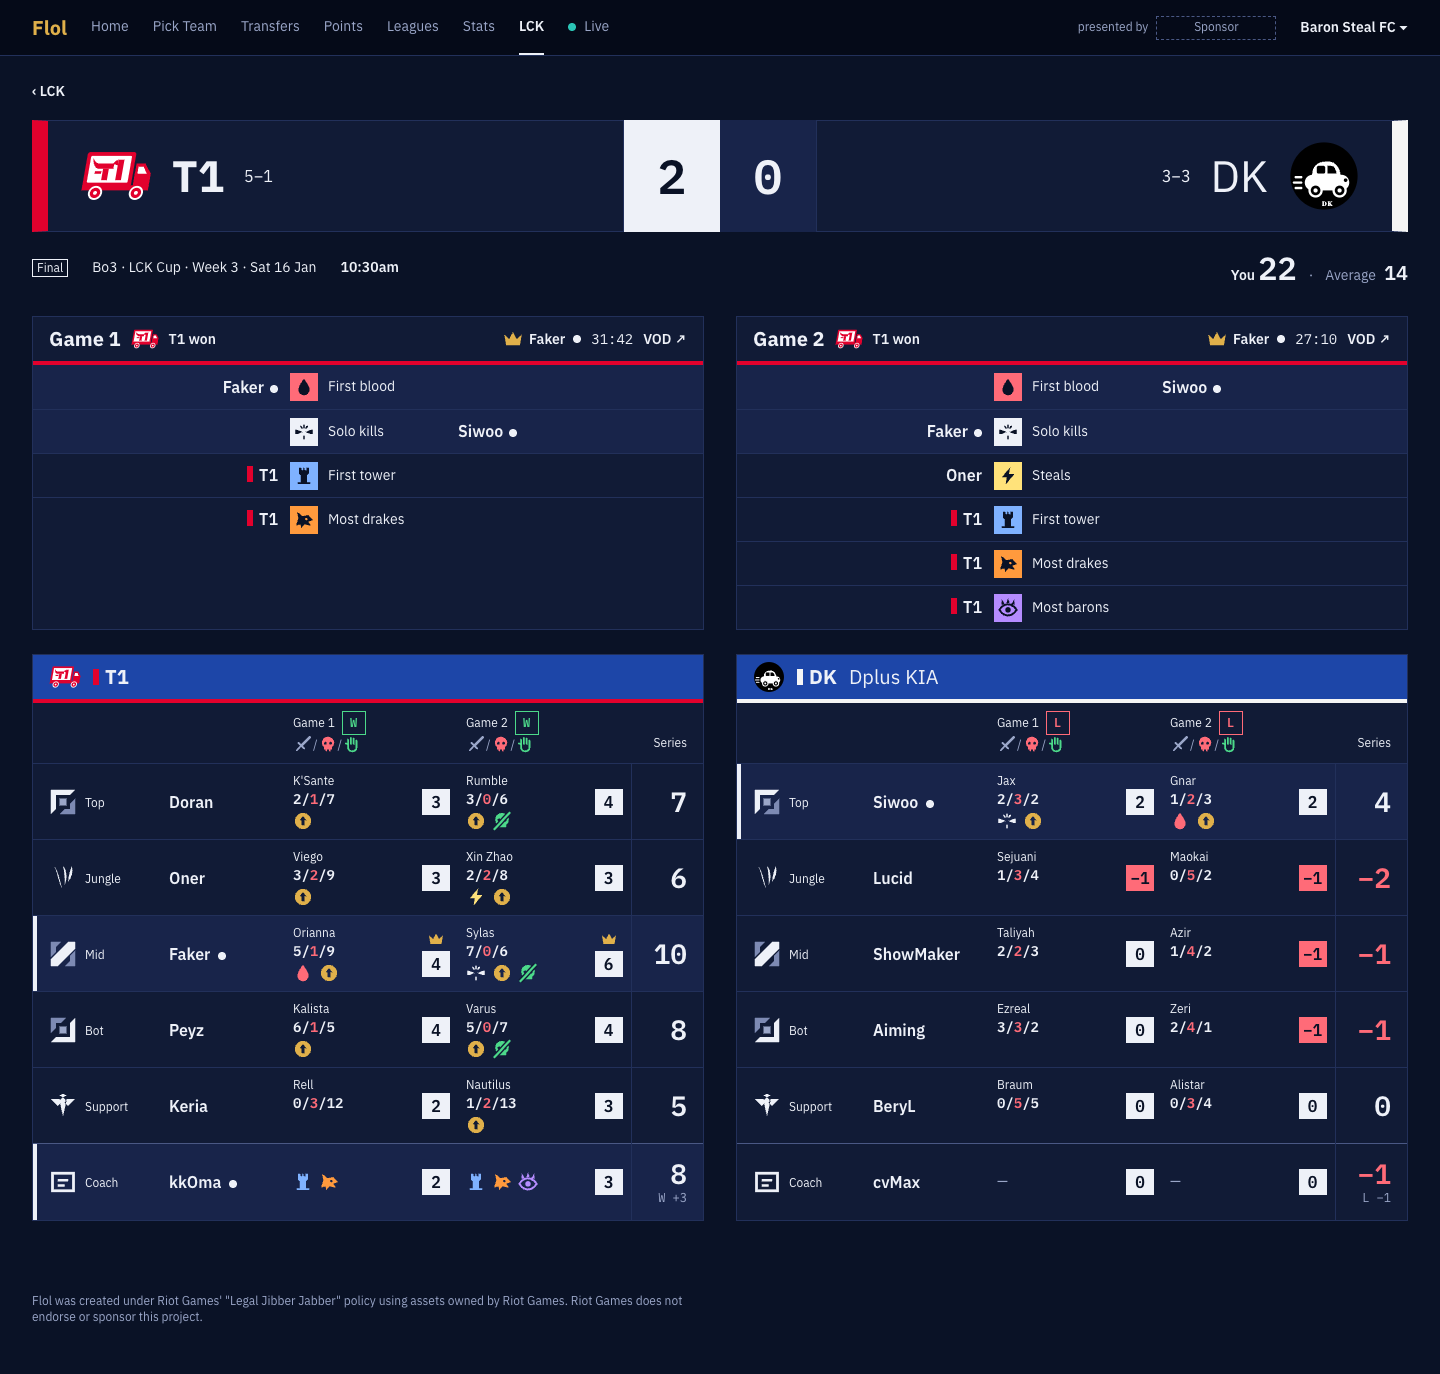
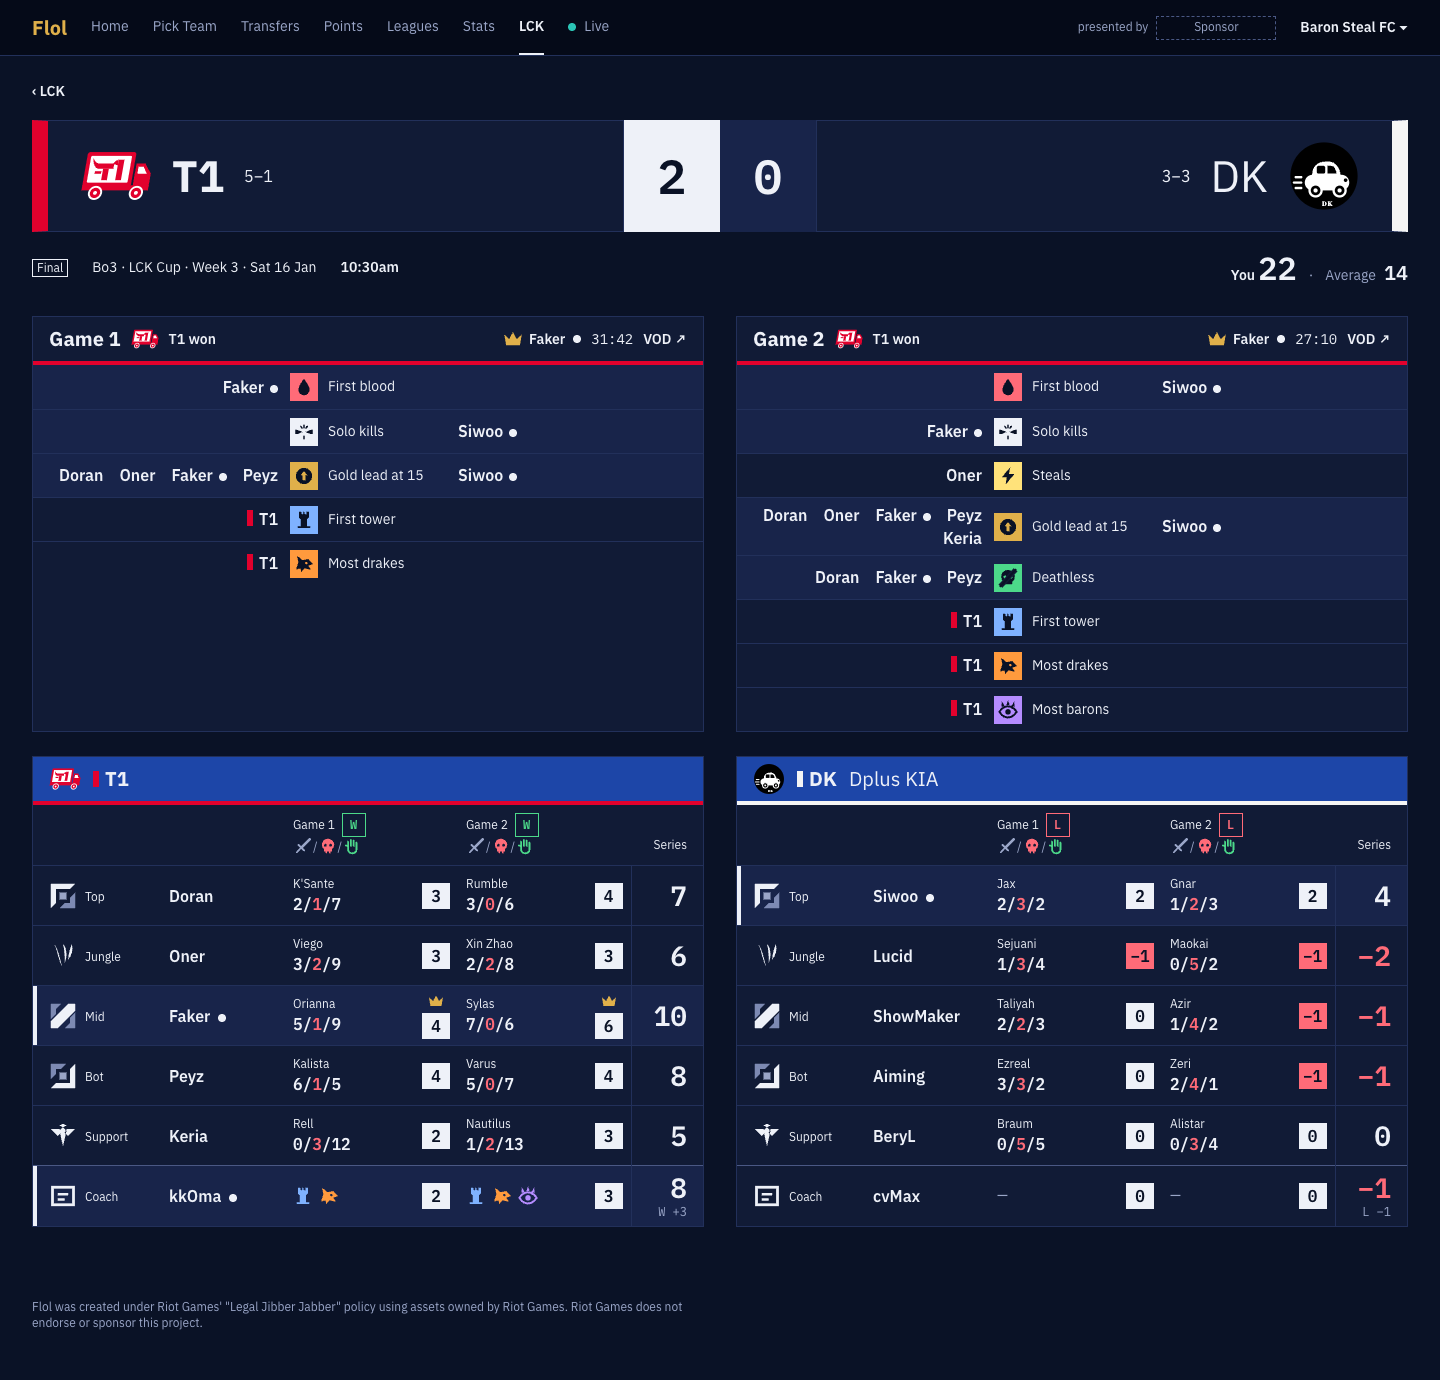
docs: Series' marks leave the K/D/A cells; gold lead at 15 and deathless join each game's card

diff --git a/docs/design/approved/series/series.html b/docs/design/approved/series/series.html
@@ -61,7 +61,7 @@ td.tot small { white-space: nowrap; }
 .grid th .chip { margin: 0 4px; }
 .th__sub { display: block; line-height: 20px; }
 .grid th { vertical-align: bottom; }
-.grid td { padding: 0 8px; height: 76px; border-top: 1px solid var(--line); vertical-align: middle; }
+.grid td { padding: 0 8px; height: 60px; border-top: 1px solid var(--line); vertical-align: middle; }
 .grid td:first-child, .grid th:first-child { padding-left: 16px; }
 td.rl { color: var(--text); font-size: 12px; white-space: nowrap; }
 td.rl svg { width: 28px; height: 28px; vertical-align: -9px; margin-right: 8px; }
@@ -71,16 +71,14 @@ td.pl small { color: var(--mid); font: 400 12px/16px var(--ko); margin-left: 8px
 .gm { display: flex; justify-content: space-between; align-items: center; gap: 8px; }
 .gm > span:first-child { white-space: nowrap; min-width: 0; }
 .gm small { display: block; color: var(--mid); font: 400 12px/16px var(--fig); }
-/* A game cell: the champion, K/D/A under the column's sword, skull and hand, then a mark for each line that scored (spec/05). */
+/* A game cell: the champion, then K/D/A under the column's sword, skull and hand. */
 .ic { width: 16px; height: 16px; flex: none; vertical-align: -3px; }
 .gm .ch { display: block; font-size: 12px; line-height: 16px; color: var(--text); overflow: hidden; text-overflow: ellipsis; }
-.gm .kda { display: block; font: 600 14px/20px var(--fig); }
+.gm .kda { display: block; font: 600 16px/24px var(--fig); }
 .gm .kda i { font-style: normal; color: var(--m-dth); }
 td.drop .gm .kda i { color: inherit; }
 .th__kda { display: block; line-height: 20px; color: var(--mid); }
 .th__kda .ic { width: 18px; height: 18px; margin: 0 1px; vertical-align: -4px; }
-.gm .mk { display: flex; gap: 6px; height: 20px; margin-top: 2px; }
-.gm .mk .ic { width: 20px; height: 20px; }
 .gm .p .ic--pog { color: var(--gold); }
 tr.is-me td { background: var(--fill); }
 tr.is-me td:first-child { box-shadow: inset 4px 0 0 var(--text); }
@@ -107,7 +105,7 @@ tr.is-me td:first-child { box-shadow: inset 4px 0 0 var(--text); }
 .ev b { font-size: 16px; }
 .ev__what .ic--pog { color: var(--gold); }
 .ev__a { text-align: right; }
-.ev__a, .ev__b { display: flex; flex-wrap: wrap; gap: 0 16px; align-items: center; }
+.ev__a, .ev__b { display: flex; flex-wrap: wrap; gap: 0 16px; align-items: center; padding: 6px 0; }
 .ev__a { justify-content: flex-end; }
 .ev b { font-weight: 600; }
 .ev .yours { margin-left: 6px; }
@@ -115,7 +113,6 @@ tr.is-me td:first-child { box-shadow: inset 4px 0 0 var(--text); }
 .gm .p { flex: none; font: 600 14px/20px var(--fig); min-width: 28px; display: flex; flex-direction: column; align-items: center; gap: 4px; }
 .gm .p .box { min-width: 28px; font: 700 16px/26px var(--fig); text-align: center; background: var(--text); color: var(--bg); }
 td.drop .gm, td.drop .gm small, td.drop .gm .ch { color: var(--mid); }
-td.drop .mk { opacity: 0.5; }
 /* A minus is red, on a game and on a series. */
 .neg { color: var(--down); }
 .gm .p .box.neg { background: var(--down); color: var(--bg); }
@@ -242,16 +239,14 @@ const best2 = (xs) => xs.map((x, i) => [x, i]).filter(([x]) => x !== null).sort(
 const me = (n) => (MINE.includes(n) ? '<i class="yours" title="Yours"></i>' : "");
 const ic = (id, title = "", cls = "") => `<svg class="ic ic--${id} ${cls}"${title ? ` role="img" aria-label="${title}"` : ' aria-hidden="true"'}><use href="#i-${id}"/></svg>`;
 const pog = (s, i, n) => (s.games[i].pog === n ? ic("pog", "Player of the Game", "ic--pog") : "");
-// A player's marks for a game: one for each line that scored beyond kills, deaths and assists.
-const marks = ([, , d, , gold, solo, fb, multi, steal, live]) => [fb && ic("fb", "First blood"), ...Array(solo).fill(ic("solo", "Solo kill")), ...Array(steal).fill(ic("steal", "Steal")), multi && ic("multi", multi > 1 ? "Penta" : "Quadra"), gold && ic("gold", "Gold lead at 15 minutes"), d === 0 && !live && ic("none", "Deathless")].filter(Boolean).join("");
 const cell = (s, i, n, label, p, counted) => `<td class="${counted ? "" : "drop"}"><div class="gm"><span>${label}</span><span class="p">${pog(s, i, n)}${counted ? `<span class="box${p < 0 ? " neg" : ""}">${fmt(p)}</span>` : fmt(p)}</span></div></td>`;
 const L = ["First tower", "Most drakes", "Most barons", "Most elders", "Quick win"], LI = ["tower", "drake", "baron", "elder", "quick"];
 // A game's events, as FPL's and UCL fantasy's finished match: a row an event that happened, each team's names on its side.
 function game(s, i) {
   const g = s.games[i], side = (code) => { const t = s[code], at = (f) => t.p.filter((p) => p[3][i] && f(p[3][i]) > 0).map((p) => `<span><b>${p[1]}</b>${f(p[3][i]) > 1 ? ` ×${f(p[3][i])}` : ""}${me(p[1])}</span>`).join("");
     const own = `<span><i class="team__bar" style="background:${BAR[code]}"></i><b>${code}</b></span>`, c = t.coach[2][i];
-    return [at((x) => x[6]), at((x) => x[5]), at((x) => x[8]), at((x) => (x[7] === 1 ? 1 : 0)), at((x) => (x[7] === 2 ? 1 : 0)), ...c.map((x) => (x ? own : ""))]; };
-  const A = side(s.a), B = side(s.b), W = [["fb", "First blood"], ["solo", "Solo kills"], ["steal", "Steals"], ["multi", "Quadras"], ["multi", "Pentas"], ...L.map((l, j) => [LI[j], l])];
+    return [at((x) => x[6]), at((x) => x[5]), at((x) => x[8]), at((x) => (x[7] === 1 ? 1 : 0)), at((x) => (x[7] === 2 ? 1 : 0)), at((x) => x[4]), at((x) => (x[2] === 0 && !x[9] ? 1 : 0)), ...c.map((x) => (x ? own : ""))]; };
+  const A = side(s.a), B = side(s.b), W = [["fb", "First blood"], ["solo", "Solo kills"], ["steal", "Steals"], ["multi", "Quadras"], ["multi", "Pentas"], ["gold", "Gold lead at 15"], ["none", "Deathless"], ...L.map((l, j) => [LI[j], l])];
   const rows = W.map(([id, word, cls], j) => (A[j] || B[j] ? `<div class="ev${(A[j] + B[j]).includes("yours") ? " is-me" : ""}"><span class="ev__a">${A[j]}</span><span class="ev__what"><span class="sq" style="background:var(--m-${id}, var(--text))">${ic(id, "", cls)}</span>${word}</span><span class="ev__b">${B[j]}</span></div>` : "")).join("");
   return `<section class="game"><h2 class="game__head"${g.w ? ` style="border-bottom-color:${BAR[g.w]}"` : ""}><b>Game ${i + 1}</b>${g.live ? `<span class="tag tag--live">Live</span><span class="len" style="margin-left:auto"><b>${g.live}</b></span>` : `${crest(g.w)}<span class="won">${g.w} won</span><span class="pogw">${ic("pog", "Player of the Game")}<b>${g.pog}</b>${me(g.pog)}</span><span class="len">${g.len}</span><a class="link" href="#">VOD ↗</a>`}</h2>${rows || '<div class="ev ev--none">—</div>'}</section>`;
 }
@@ -261,7 +256,7 @@ function team(s, code) {
     <tr><th></th><th></th>${s.games.map((g, i) => `<th>Game ${i + 1} ${g.live ? `<span class="chip chip--live">Live</span>` : `<span class="chip chip--${g.w === code ? "w" : "l"}">${g.w === code ? "W" : "L"}</span>`}<span class="th__kda">${ic("kda", "Kills")}/${ic("dth", "Deaths")}/${ic("ast", "Assists")}</span></th>`).join("")}<th class="n">Series</th></tr>`;
   const rows = t.p.map(([rl, nm, k, gs, sub]) => { const ps = gs.map((g) => pts(rl, g)), c = best2(ps);
     return `<tr${MINE.includes(nm) ? ' class="is-me"' : ""}><td class="rl"><svg><use href="#i-${rl}"/></svg>${RH[rl]}${sub ? " · sub" : ""}</td><td class="pl"><b>${nm}</b>${me(nm)}</td>
-      ${gs.map((g, i) => (g ? cell(s, i, nm, `<span class="ch">${g[0]}</span><span class="kda">${g[1]}/<i>${g[2]}</i>/${g[3]}</span><span class="mk">${marks(g)}</span>`, ps[i], c.includes(i)) : '<td><span class="none">—</span></td>')).join("")}<td class="tot">${mine(nm, sum(c.map((i) => ps[i])))}</td></tr>`; }).join("");
+      ${gs.map((g, i) => (g ? cell(s, i, nm, `<span class="ch">${g[0]}</span><span class="kda">${g[1]}/<i>${g[2]}</i>/${g[3]}</span>`, ps[i], c.includes(i)) : '<td><span class="none">—</span></td>')).join("")}<td class="tot">${mine(nm, sum(c.map((i) => ps[i])))}</td></tr>`; }).join("");
   const [cn, ck, cg] = t.coach, cp = cg.map(sum), c = best2(cp), sw = !over ? 0 : won.filter(Boolean).length === 2 ? 3 : -1;
   const coach = `<tr class="co${MINE.includes(cn) ? " is-me" : ""}"><td class="rl"><svg><use href="#i-coach"/></svg>Coach</td><td class="pl"><b>${cn}</b>${me(cn)}</td>
     ${cg.map((g, i) => cell(s, i, cn, `<span class="${g.some(Boolean) ? "co-l" : "none"}">${g.map((x, j) => (x ? ic(LI[j], L[j]) : "")).join("") || "—"}</span>`, cp[i], c.includes(i))).join("")}

diff --git a/docs/design/approved/series/README.md b/docs/design/approved/series/README.md
@@ -27,12 +27,12 @@ The Series page: one series, its games and each player's lines in each game (spe
 - **Type**: 44 team codes and 48 the series score in the scorebug, 32 You, 28 each player's series total, 20 Average and a game card's title, 16 names and per-game points, 14 body and K/D/A, 12 labels and champions. The nav is shared.
 - **Scorebug**, 112 tall: a 16px bar of the team's colour at each outer edge, team crest (72), code and record, and between them a 96px cell for each team's games won, the winner's turned over (white, dark figure). While it is live both cells follow the same rule, the leader's turned over. The loser's code drops to plain weight once the series is final; while it is live, neither does. A record is as of when the page is opened, so it is the record before the series while the series is live.
 - **The line under it**: a Final tag, or Live and a dashed Not final tag. Then the format, competition, week, day and time (your local time), and Watch › while live or before the start. At the right, You and Average, once the series has started; You is the larger.
-- **A card a game**, side by side under that line: `Game 1`, the winner's crest and `T1 won`, then at the right a gold crown and the Player of the Game, the game's length and `VOD ↗`; a live game shows the Live tag and its clock. Under the head, a row for each event that happened, in this order: First blood, Solo kills, Steals, Quadras, Pentas, then the coach lines First tower, Most drakes, Most barons, Most elders, Quick win. A row naming one of your players is filled. Cards share the tallest one's height. The event's mark sits in the middle on a 28px square of its own colour, its word after it, the left team's names to its left and the right team's to its right. The rule under the card's head is the winner's colour. A player carries your dot; a count over one reads `×2`; a coach line names the team by its bar and code. An event nobody got has no row.
+- **A card a game**, side by side under that line: `Game 1`, the winner's crest and `T1 won`, then at the right a gold crown and the Player of the Game, the game's length and `VOD ↗`; a live game shows the Live tag and its clock. Under the head, a row for each event that happened, in this order: First blood, Solo kills, Steals, Quadras, Pentas, Gold lead at 15, Deathless, then the coach lines First tower, Most drakes, Most barons, Most elders, Quick win. A row naming one of your players is filled. Cards share the tallest one's height. The event's mark sits in the middle on a 28px square of its own colour, its word after it, the left team's names to its left and the right team's to its right. The rule under the card's head is the winner's colour. A player carries your dot; a count over one reads `×2`; a coach line names the team by its bar and code. An event nobody got has no row.
 - **Two grids**, one per team, side by side:
   - one row per player in role order, then the coach under a rule;
   - the name, with no Hangul (Craig, 27 Nov 2026), and a round dot after your own players, whose rows are filled (`--fill`) with a 4px white bar at the left; no Captain's C and no ×1.5 here (Craig, 27 Nov 2026), so a Series total is the player's own and You is the sum of yours;
   - a column per game, headed `Game 1` with W or L, or the Live tag, and under it a sword, a red skull and a green hand for kills, deaths and assists, as League's scoreboard heads them;
-  - each game cell holds the champion, K/D/A with the deaths figure in red, then a 20px mark for each line that scored beyond them: first blood, a solo kill (one a kill), a steal, a quadra or penta, the gold lead at 15, a deathless game. At the right, the points, the best 2 on a filled white square (red for a minus) and a dropped game greyed and bare. Rows are 76 tall, the role icon 28;
+  - each game cell holds the champion, and K/D/A with the deaths figure in red; no marks under it, the game's card saying who earned what (Craig, 27 Nov 2026: the marks meant nothing there). At the right, the points, the best 2 on a filled white square (red for a minus) and a dropped game greyed and bare. Rows are 60 tall, the role icon 28;
   - a gold crown sits over the points of each game's Player of the Game;
   - the Series column shows the best-2 total;
   - the coach cell shows a mark for each coach line that scored (First tower, Most drakes, Most barons, Most elders, Quick win). The coach's series total adds W +3 or L −1 once the series is final.

diff --git a/docs/design/plate.md b/docs/design/plate.md
@@ -154,7 +154,7 @@ Each part is drawn one way on every screen.
   in the bar's place. Never a tinted row, a wash or a coloured code.
 - **Your players** are marked by that dot, on every screen.
 - **A fact's mark** (Home's Star, Flop and All managers, Points' Star, Flop and Killer; Craig, 27 Nov 2026, "keep them", after the pages read dull): a 20px mark before the fact's word, its colour the one that fact already has elsewhere: Star a gold star, Flop a red falling line, Killer crossed swords in `--text`, having no colour of its own (Craig, 27 Nov 2026), Most captained the Captain's C, Most bought a green plus in a ring and Most sold a red minus in a ring, as Transfers' Buy and Sell. One mark a fact, the same on every page.
-- **A scoring line's mark** (Series; Craig, 27 Nov 2026, after the page read as text and squares): a mark, drawn for Flol with none of Riot's artwork, for each scoring line a player or coach earned in a game, 20px in a game cell and on a 28px filled square beside the line's word in a game's card. Each line's mark has its own colour (Craig, 27 Nov 2026, the page still short of colour): red for blood and deaths, gold for gold and the crown, orange drakes, purple Baron, teal Elder, blue tower, yellow steal, green for the clean lines. Kills, deaths and assists are a single sword, a skull and a hand, crossed swords being Killer's. Player of the Game is a crown in `--ink`, the star being Star's. One mark a line, the same on every page; the set is `approved/series/`, Marks.
+- **A scoring line's mark** (Series; Craig, 27 Nov 2026, after the page read as text and squares): a mark, drawn for Flol with none of Riot's artwork, for each scoring line a player or coach earned in a game, on a 28px filled square beside the line's word in a game's card; never alone under a player's K/D/A, where it meant nothing (Craig, 27 Nov 2026). A coach's game cell keeps his lines' marks at 20px. Each line's mark has its own colour (Craig, 27 Nov 2026, the page still short of colour): red for blood and deaths, gold for gold and the crown, orange drakes, purple Baron, teal Elder, blue tower, yellow steal, green for the clean lines. Kills, deaths and assists are a single sword, a skull and a hand, crossed swords being Killer's. Player of the Game is a crown in `--ink`, the star being Star's. One mark a line, the same on every page; the set is `approved/series/`, Marks.
 - **A player named in a row** reads as his tile's plate: his team's bar and code, then his name, `T1 Faker`; never a bare name (Craig, 27 Nov 2026; `approved/home/`).
 - **Section that opens and closes** (Help, as FPL's): a 48px row, its title 16/600 at the left and
   ▾ or ▴ in `--mid` at the right, a 1px `--line` under it; open, its text sits under the title with

diff --git a/spec/12-pages.md b/spec/12-pages.md
@@ -82,8 +82,8 @@ FPL's, or FPL's logic ([SPEC.md](../SPEC.md), the base assumption). Open questio
     lolesports. No series POG, picks, bans or sides: "i dont think we need draft info overload"
     (Craig, 16 Nov 2026).
   - Each game shows its events under the score, as FPL does a finished match's: its Player of the
-    Game, first blood, solo kills, steals, quadras and pentas, and the coach lines, each with who
-    got it. A player's game shows a mark for each scoring line he earned (Craig, 27 Nov 2026).
+    Game, first blood, solo kills, steals, quadras and pentas, gold leads at 15, deathless games
+    and the coach lines, each with who got it (Craig, 27 Nov 2026).
   - The scorebug shows each team's record as of now. The coach row shows the coach lines that
     scored and the series +3 or −1. Your own players carry a mark (Craig, 16 Nov 2026).
   - One line sets your points from the series beside the average manager's: `You 31 · Average 24`.
